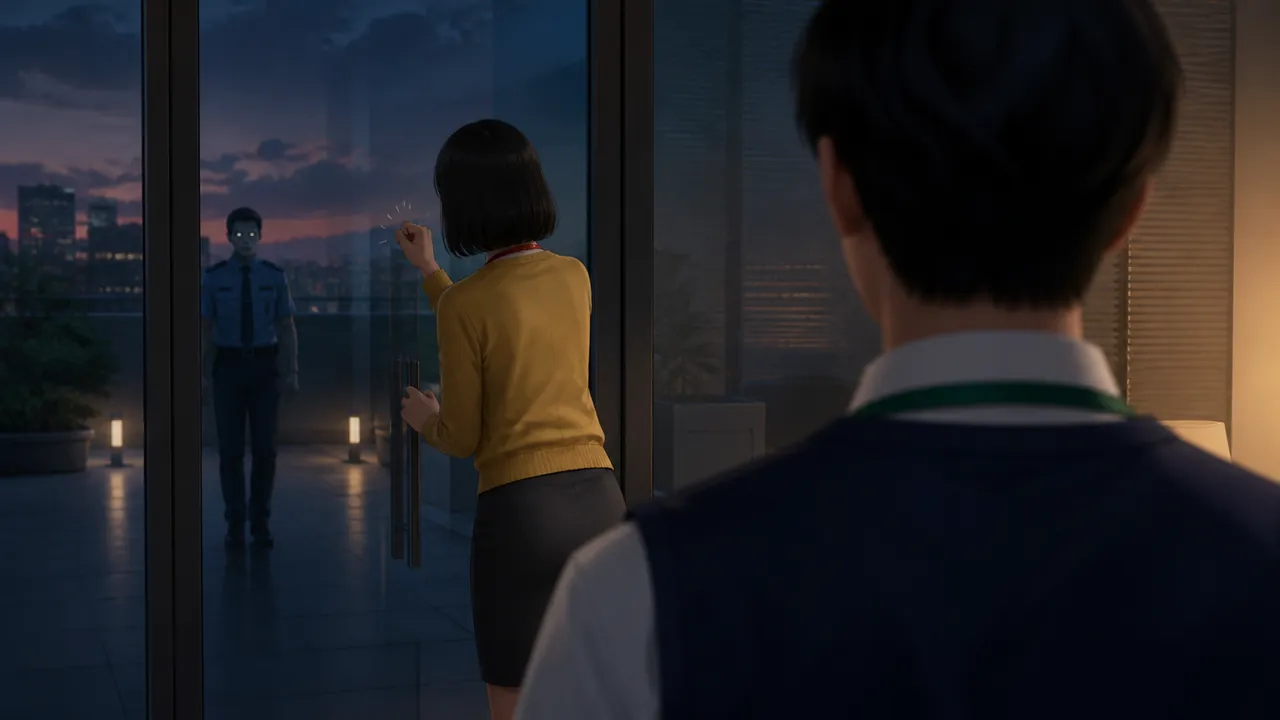
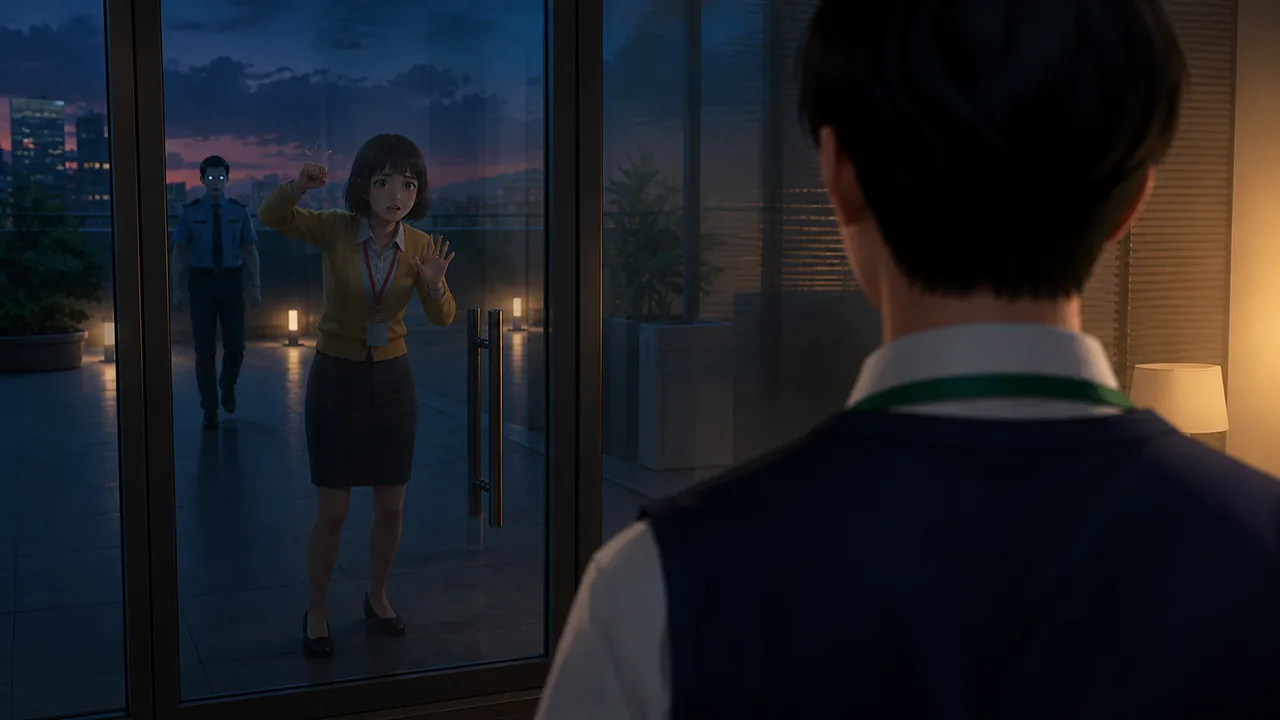
Fix Jisu door scene composition

diff --git a/story/office-zombie/script.js b/story/office-zombie/script.js
@@ -15,7 +15,7 @@
       '<span class="broadcast">[사내 긴급방송] 전 임직원은 현재 위치에서 대기해 주십시오.</span>',
       '방송은 비명과 함께 끊깁니다. 유리문 너머에는 경비원 한 명이 고개를 떨군 채 서 있습니다.'
     ],next:'door'},
-    door:{image:'glass-door.webp',alt:'유리문을 두드리는 지수와 뒤에서 다가오는 좀비 경비원',location:'17층 출입문',mood:'danger',title:'문밖의 지수',text:[
+    door:{image:'glass-door.webp?v=2',alt:'사무실 밖 유리문을 두드리는 지수와 뒤에서 다가오는 좀비 경비원',location:'17층 출입문',mood:'danger',title:'문밖의 지수',text:[
       '<span class="danger">쿵. 쿵.</span>',
       '팀 막내 지수가 유리문을 두드립니다. 뒤쪽에서는 눈빛이 달라진 경비원이 천천히 다가옵니다.',
       '<span class="message">지수 · 문 좀 열어주세요. 빨리요!</span>'

diff --git a/story/office-zombie/index.html b/story/office-zombie/index.html
@@ -66,6 +66,6 @@
     <script>try{window.adsbygoogle=window.adsbygoogle||[];window.adsbygoogle.push({})}catch(error){console.warn('AdSense initialization deferred.',error)}</script>
   </main>
   <footer><a href="/">Survival Office</a><span>본 게임의 이야기와 이미지는 창작물입니다.</span></footer>
-  <script src="script.js?v=20260814i"></script>
+  <script src="script.js?v=20260814j"></script>
 </body>
 </html>
